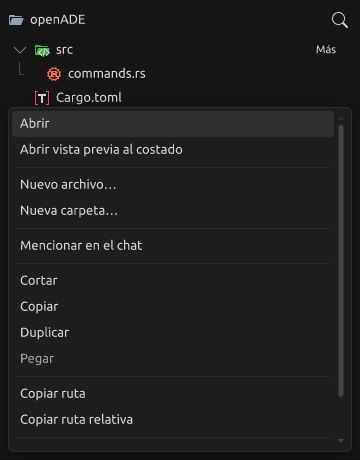
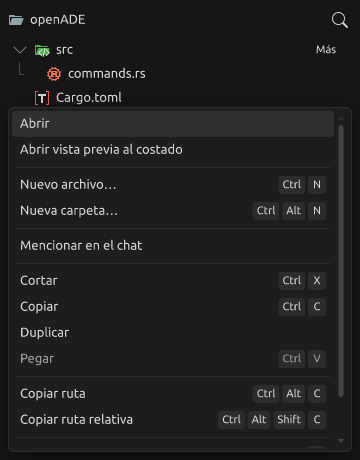
File tree: keys for the focused row, shown as keycaps in its menu
F2 renames, Supr asks before the trash, Ctrl+C/X/V use the tree's clipboard,
Ctrl+N and Ctrl+Alt+N name a new file or folder, Ctrl+Alt+C and
Ctrl+Alt+Shift+C copy the path. They are read from the native events and only
while a row of the tree has the focus, so the editor keeps F2, a text field
keeps its clipboard keys, and the workbench keymap keeps Ctrl+N elsewhere.

diff --git a/apps/agents-window/src/file_tree_app.rs b/apps/agents-window/src/file_tree_app.rs
@@ -338,6 +338,60 @@ impl AgentsWindow {
         true
     }
 
+    /// The keys of the focused tree row, taken from the native events: the
+    /// UI's own key events drop Alt, and the workbench keymap would claim
+    /// Ctrl+N first. Any other focus, a text field included, keeps its keys.
+    pub(super) fn handle_file_tree_keys(&mut self, ctx: &egui::Context) -> bool {
+        let Some(path) = self
+            .tree
+            .focused_id()
+            .and_then(|id| id.strip_prefix("file_row:")?.parse::<usize>().ok())
+            .and_then(|index| self.file_explorer.as_ref()?.rows().get(index))
+            .map(|row| row.relative.to_string_lossy().replace('\\', "/"))
+        else {
+            return false;
+        };
+        let mut operations = Vec::new();
+        ctx.input_mut(|input| {
+            let held = input.modifiers;
+            input.events.retain(|event| {
+                operations.push(match event {
+                    // The system reports Ctrl+C/X/V as these, whatever else is held.
+                    egui::Event::Copy if held.alt && held.shift => "copy_relative",
+                    egui::Event::Copy if held.alt => "copy_path",
+                    egui::Event::Copy if !held.shift => "copy",
+                    egui::Event::Cut if !held.shift && !held.alt => "cut",
+                    egui::Event::Paste(_) if !held.shift && !held.alt => "paste",
+                    egui::Event::Key {
+                        key,
+                        pressed: true,
+                        repeat: false,
+                        modifiers,
+                        ..
+                    } => match key {
+                        egui::Key::F2 if modifiers.is_none() => "rename",
+                        egui::Key::Delete if modifiers.is_none() => "delete",
+                        egui::Key::N if modifiers.command && !modifiers.shift => {
+                            if modifiers.alt {
+                                "new_folder"
+                            } else {
+                                "new_file"
+                            }
+                        }
+                        _ => return true,
+                    },
+                    _ => return true,
+                });
+                false
+            });
+        });
+        for operation in &operations {
+            let id = crate::files_panel_ui::tree_action(operation, &path);
+            self.apply_file_tree_action(&UiAction::Clicked { id }, ctx);
+        }
+        !operations.is_empty()
+    }
+
     pub(super) fn cancel_file_draft(&mut self) {
         self.view.file_draft = None;
         self.file_draft_focus_pending = false;
@@ -716,6 +770,187 @@ mod tests {
         // Leaving the project empties the clipboard of its paths.
         app.invalidate_workspace_files();
         assert_eq!(app.view.file_clipboard, None);
+    }
+
+    fn key(key: egui::Key, ctrl: bool, alt: bool, shift: bool) -> egui::Event {
+        egui::Event::Key {
+            key,
+            physical_key: Some(key),
+            pressed: true,
+            repeat: false,
+            modifiers: held(ctrl, alt, shift),
+        }
+    }
+    fn held(ctrl: bool, alt: bool, shift: bool) -> egui::Modifiers {
+        egui::Modifiers {
+            ctrl,
+            command: ctrl,
+            alt,
+            shift,
+            mac_cmd: false,
+        }
+    }
+
+    /// One frame's native events with `held` modifiers: whether the tree took
+    /// any, what it left for the rest of the window, and what it copied.
+    fn press(
+        app: &mut AgentsWindow,
+        events: Vec<egui::Event>,
+        held: egui::Modifiers,
+    ) -> (bool, Vec<egui::Event>, Vec<String>) {
+        let ctx = egui::Context::default();
+        let mut native = vec![egui::Event::ModifiersChanged(held)];
+        native.extend(events);
+        ctx.begin_pass(egui::RawInput {
+            events: native,
+            ..Default::default()
+        });
+        assert_eq!(ctx.input(|input| input.modifiers), held);
+        let taken = app.handle_file_tree_keys(&ctx);
+        let left = ctx.input(|input| input.events[1..].to_vec());
+        let mut output = ctx.end_pass();
+        output.textures_delta.clear();
+        let copied = output
+            .platform_output
+            .commands
+            .into_iter()
+            .filter_map(|command| match command {
+                egui::OutputCommand::CopyText(text) => Some(text),
+                _ => None,
+            })
+            .collect();
+        pump(app);
+        (taken, left, copied)
+    }
+
+    fn frame(app: &mut AgentsWindow) {
+        app.tree.set_root(build_view(&app.view, 1200.0));
+        app.tree.layout(Size::new(1200.0, 720.0));
+        app.focus_file_draft_if_pending();
+    }
+
+    fn focus_row(app: &mut AgentsWindow, name: &str) {
+        frame(app);
+        let index = names(app).iter().position(|row| *row == name).unwrap();
+        assert!(app.tree.focus(&format!("file_row:{index}")), "{name}");
+    }
+
+    #[test]
+    fn keys_act_on_the_focused_row_by_its_path() {
+        let (_root, mut app) = fixture();
+        let project = PathBuf::from(&app.view.workspace);
+        let none = egui::Modifiers::NONE;
+        app.open_files_dock();
+        act(&mut app, "toggle", "src");
+        // F2 renames in place and Supr asks before the trash.
+        focus_row(&mut app, "main.rs");
+        let (taken, left, _) = press(&mut app, vec![key(egui::Key::F2, false, false, false)], none);
+        assert!(taken && left.is_empty());
+        assert_eq!(
+            draft(&app),
+            Some(("src/main.rs", FileDraftKind::Rename, "main.rs"))
+        );
+        app.cancel_file_draft();
+        focus_row(&mut app, "deep");
+        press(&mut app, vec![key(egui::Key::Delete, false, false, false)], none);
+        assert_eq!(app.view.file_delete, Some(("src/deep".into(), true)));
+        app.view.file_delete = None;
+        // Ctrl+C / Ctrl+X / Ctrl+V arrive as the system's clipboard events.
+        focus_row(&mut app, "README.md");
+        let ctrl = held(true, false, false);
+        let (_, left, copied) = press(&mut app, vec![egui::Event::Copy], ctrl);
+        assert!(left.is_empty() && copied.is_empty(), "the tree has its own clipboard");
+        assert_eq!(
+            app.view.file_clipboard,
+            Some((vec!["README.md".into()], false))
+        );
+        focus_row(&mut app, "main.rs");
+        press(&mut app, vec![egui::Event::Paste("texto ajeno".into())], ctrl);
+        assert!(project.join("src/README.md").is_file(), "beside the focused file");
+        press(&mut app, vec![egui::Event::Cut], ctrl);
+        assert_eq!(
+            app.view.file_clipboard,
+            Some((vec!["src/main.rs".into()], true))
+        );
+        // Ctrl+Alt+C and Ctrl+Alt+Shift+C copy the paths as text.
+        let (_, _, copied) = press(&mut app, vec![egui::Event::Copy], held(true, true, false));
+        assert_eq!(copied, [format!("{}/src/main.rs", app.view.workspace)]);
+        let (_, _, copied) = press(&mut app, vec![egui::Event::Copy], held(true, true, true));
+        assert_eq!(copied, ["src/main.rs"]);
+        // Ctrl+N and Ctrl+Alt+N name a new entry beside the file or in the folder.
+        press(&mut app, vec![key(egui::Key::N, true, false, false)], ctrl);
+        assert_eq!(draft(&app), Some(("src", FileDraftKind::NewFile, "")));
+        app.cancel_file_draft();
+        focus_row(&mut app, "deep");
+        let (taken, left, _) = press(
+            &mut app,
+            vec![key(egui::Key::N, true, true, false)],
+            held(true, true, false),
+        );
+        assert!(taken && left.is_empty(), "the workbench keymap never sees it");
+        assert_eq!(draft(&app), Some(("src/deep", FileDraftKind::NewFolder, "")));
+    }
+
+    #[test]
+    fn keys_belong_to_the_tree_only_while_one_of_its_rows_has_the_focus() {
+        let (_root, mut app) = fixture();
+        let project = PathBuf::from(&app.view.workspace);
+        app.open_files_dock();
+        act(&mut app, "copy", "README.md");
+        let events = || {
+            vec![
+                key(egui::Key::F2, false, false, false),
+                key(egui::Key::Delete, false, false, false),
+                key(egui::Key::N, true, false, false),
+                egui::Event::Copy,
+                egui::Event::Cut,
+                egui::Event::Paste("texto".into()),
+            ]
+        };
+        let untouched = |app: &mut AgentsWindow| {
+            let (taken, left, copied) = press(app, events(), held(true, false, false));
+            assert!(!taken && copied.is_empty());
+            assert_eq!(left, events(), "every key stays with whoever has the focus");
+            assert_eq!(app.view.file_delete, None);
+            assert_eq!(
+                app.view.file_clipboard,
+                Some((vec!["README.md".into()], false))
+            );
+            assert_eq!(std::fs::read_dir(&project).unwrap().count(), 2);
+        };
+        // Another control, as the editor is when F2 renames a symbol.
+        frame(&mut app);
+        assert!(app.tree.focus("files_search"));
+        untouched(&mut app);
+        assert_eq!(draft(&app), None);
+        // Typing a name: the field keeps F2, Supr and the clipboard keys.
+        focus_row(&mut app, "README.md");
+        press(
+            &mut app,
+            vec![key(egui::Key::F2, false, false, false)],
+            egui::Modifiers::NONE,
+        );
+        frame(&mut app);
+        assert_eq!(app.tree.focused_id(), Some("file_tree_draft"));
+        untouched(&mut app);
+        assert_eq!(
+            draft(&app),
+            Some(("README.md", FileDraftKind::Rename, "README.md"))
+        );
+        // On a row, chords that belong to the workbench are still left alone.
+        app.cancel_file_draft();
+        focus_row(&mut app, "README.md");
+        for (event, modifiers) in [
+            (egui::Event::Cut, held(true, false, true)),
+            (egui::Event::Copy, held(true, false, true)),
+            (key(egui::Key::F2, false, false, true), held(false, false, true)),
+            (key(egui::Key::N, true, false, true), held(true, false, true)),
+        ] {
+            let (taken, left, _) = press(&mut app, vec![event.clone()], modifiers);
+            assert!(!taken, "{event:?}");
+            assert_eq!(left, [event]);
+        }
+        assert_eq!(draft(&app), None);
     }
 
     #[test]

diff --git a/apps/agents-window/src/files_panel_ui.rs b/apps/agents-window/src/files_panel_ui.rs
@@ -20,6 +20,22 @@ pub(crate) fn tree_action(operation: &str, path: &str) -> String {
     format!("file_tree:{operation}:{path}")
 }
 
+/// The key of an operation while a row of the tree has the focus.
+fn shortcut(operation: &str) -> Option<&'static str> {
+    Some(match operation {
+        "new_file" => "Ctrl+N",
+        "new_folder" => "Ctrl+Alt+N",
+        "cut" => "Ctrl+X",
+        "copy" => "Ctrl+C",
+        "paste" => "Ctrl+V",
+        "copy_path" => "Ctrl+Alt+C",
+        "copy_relative" => "Ctrl+Alt+Shift+C",
+        "rename" => "F2",
+        "delete" => "Supr",
+        _ => return None,
+    })
+}
+
 /// The menu of `path`: groups of (operation, label) with a rule between them.
 /// Pegar is there but disabled while the tree's clipboard is empty.
 fn tree_menu(
@@ -34,10 +50,13 @@ fn tree_menu(
             entries.push(ContextMenuEntry::Separator);
         }
         entries.extend(group.iter().map(|(operation, label)| {
-            ContextMenuEntry::Item(
-                ContextMenuItem::new(tree_action(operation, path), *label)
-                    .enabled(*operation != "paste" || can_paste),
-            )
+            let item = ContextMenuItem::new(tree_action(operation, path), *label)
+                .enabled(*operation != "paste" || can_paste);
+            // The keys act on the focused row, so the root's menu names none.
+            ContextMenuEntry::Item(match shortcut(operation) {
+                Some(keys) if !path.is_empty() => item.shortcut(keys),
+                _ => item,
+            })
         }));
     }
     ContextMenu::new(
@@ -563,9 +582,19 @@ mod tests {
         tree.layout(size)
     }
 
+    /// The keycaps a menu can show beside its labels.
+    const CAPS: [&str; 9] = ["Ctrl", "Alt", "Shift", "N", "X", "C", "V", "F2", "Supr"];
+
     /// Right-clicks `point` and returns every label of the menu that opens.
-    /// A long menu scrolls inside limn's cap: its two ends are read and joined.
     fn menu_at(tree: &mut UiTree, size: Size, point: Point) -> Vec<String> {
+        let mut labels = menu_texts(tree, size, point);
+        labels.retain(|text| !CAPS.contains(&text.as_str()));
+        labels
+    }
+
+    /// Everything the menu opened at `point` says, labels and keycaps alike.
+    /// A long menu scrolls inside limn's cap: its two ends are read and joined.
+    fn menu_texts(tree: &mut UiTree, size: Size, point: Point) -> Vec<String> {
         tree.handle_event(UiEvent::ContextMenu { position: point });
         let mut labels = painted_menu(&tree.layout(size));
         let end = painted_menu(&scroll_menu(tree, size, -10_000.0));
@@ -611,7 +640,8 @@ mod tests {
             can_load_more: false,
         });
         state.file_clipboard = Some((vec!["Cargo.toml".into()], false));
-        let size = Size::new(320.0, 400.0);
+        // Wide enough for the menu's full width: no label wraps beside its keys.
+        let size = Size::new(400.0, 400.0);
         for compact in [false, true] {
             let build = || {
                 let root = if compact {
@@ -741,6 +771,20 @@ mod tests {
             error: error.map(str::to_owned),
         });
         state
+    }
+
+    #[test]
+    fn row_menus_name_the_keys_and_the_root_menu_names_none() {
+        let size = Size::new(400.0, 400.0);
+        let keys = "Ctrl N Ctrl Alt N Ctrl X Ctrl C Ctrl V Ctrl Alt C Ctrl Alt Shift C F2 Supr";
+        for (target, expected) in [("file_row:2", keys), ("files_workspace", "")] {
+            let mut tree = UiTree::new(build(&state(), size.width));
+            tree.set_reduced_motion(true);
+            let frame = tree.layout(size);
+            let mut caps = menu_texts(&mut tree, size, center(bounds(&frame, target)));
+            caps.retain(|text| CAPS.contains(&text.as_str()));
+            assert_eq!(caps.join(" "), expected, "{target}");
+        }
     }
 
     #[test]

diff --git a/apps/agents-window/src/app.rs b/apps/agents-window/src/app.rs
@@ -19096,6 +19096,14 @@ impl eframe::App for AgentsWindow {
             || (self.view.show_settings
                 && self.view.settings_page == SettingsPage::Mcp
                 && self.view.mcp_editor_open);
+        // A focused tree row takes its keys before the workbench keymap does.
+        if !workflow_modal_open
+            && !text_menu_open
+            && !self.view.show_command_center
+            && !self.view.show_settings
+        {
+            early_changed |= self.handle_file_tree_keys(&ctx);
+        }
         let (keymap_changed, settings_search_focus_target) =
             self.handle_keymap_shortcuts(&ctx, workflow_modal_open, text_menu_open);
         early_changed |= keymap_changed;
